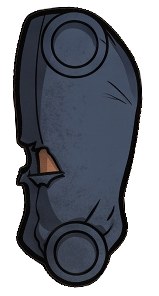
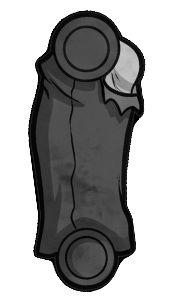
v2.15: zenci korsanın belden altı yeni görselle (kalça, üst/alt bacak, bot; önü/arkası tonla), tüm parçalar %100 ölçek
Claude-Session: https://claude.ai/code/session_01TTUSvMZpijoj56mF5NfEiC

diff --git a/www/index.html b/www/index.html
@@ -49,7 +49,7 @@ canvas{cursor:crosshair}.etiket,.ipucu{pointer-events:none}
 <link rel="stylesheet" href="https://fonts.googleapis.com/css2?family=Bangers&family=Nunito:wght@700;800&display=swap">
 
 <canvas id="c"></canvas>
-<div class="etiket"><b>POPEYE FIGHTER</b>v2.14</div>
+<div class="etiket"><b>POPEYE FIGHTER</b>v2.15</div>
 <div class="ipucu">← → yürü &nbsp; ↑ zıpla &nbsp; J yumruk &nbsp; K tekme &nbsp; G süpermen &nbsp; B dönen tekme &nbsp; N yer yumruğu/süper iniş &nbsp; M kayma &nbsp; ↓ çömel &nbsp; <b>sağ/sol yarıya tık tık: kombo &nbsp; sürükle: sağ yarı ön kol, sol yarı arka kol</b></div>
 <div class="tus" id="asa" aria-label="eğil"></div><div class="tus" id="sol" aria-label="sol"></div><div class="tus" id="sag" aria-label="sağ"></div><div class="tus" id="zipla" aria-label="zıpla"></div>
 <div id="kombolB" aria-label="kombo listesi"></div>
@@ -82,7 +82,7 @@ ADLAR.forEach(a=>{
     R.z_ust_k=koyult(R.z_ust,.3);R.z_onA_k=koyult(R.z_onA,.3);R.z_bacak_k=koyult(R.z_bacak,.36);R.z_ayak_k=koyult(R.z_ayak,.36);      // zombinin arkadaki kolu/bacağı daha koyu   // arkadaki kol: bacaktan daha açık ton
     basla();}};
   im.onerror=()=>{document.getElementById('yuk').textContent='Parça yüklenemedi: '+a};
-  im.src='parca/'+a+'.png?v=41';          // ?v= : görsel değişince tarayıcı eski önbelleği kullanmasın
+  im.src='parca/'+a+'.png?v=42';          // ?v= : görsel değişince tarayıcı eski önbelleği kullanmasın
 });
 const YUZ=[];                      // ana yüz: 0 = tam can ... 9 = çok az can, 10 = ölü
 for(let i=0;i<11;i++){const im=new Image();im.src='yuz/yuz'+i+'.png?v=41';YUZ.push(im)}
@@ -1326,8 +1326,8 @@ function ciziZombi(e,mask){
 // ---------- Korsan (insan dövüşçü): oyuncunun iskeleti gibi omuz → dirsek → bilek, kalça → diz; parça halkaları eklem noktası ----------
 // iki görünüm aynı iskelet ve hareketlerle: k = yumruklu korsan, b = bıçaklı korsan (eski emekleyen zombinin yerine)
 const KSK={
-  k:{p:'k_',sc:0.95,us:0.75,as:1.25,A:{ust:[83,64.4],on:[139,52.2],elN:[91.1,43.3],elF:[95.8,44.1],uyN:[74.9,44.1],uyF:[101,53.1],bacak:[63.6,33.6],govde:[150,351],kalca:[126,57],kafa:[129,216]},
-     ust:183.8,on:172.7,uy:209.8,tb:[2.4,276],bel:566,kN:[15,96],kF:[-18,96],omN:[-100.8,-227.4],omF:[90,-246],boyun:[10.8,-308]},
+  k:{p:'k_',sc:0.95,us:1,as:1,A:{ust:[83,64.4],on:[139,52.2],elN:[91.1,43.3],elF:[95.8,44.1],uyN:[86.1,47.8],uyF:[86.1,47.8],bacak:[107.3,70.2],govde:[150,351],kalca:[105.3,75.3],kafa:[129,216]},
+     ust:183.8,on:172.7,uy:209.8,tb:[0,276],bel:566,kN:[15,96],kF:[-18,96],omN:[-100.8,-227.4],omF:[90,-246],boyun:[10.8,-308]},
   b:{p:'b_',sc:0.98,us:1,as:1,A:{ust:[58.8,54.5],on:[128.4,47.2],elN:[64.9,32.8],elF:[94.5,43.8],uyN:[72.7,42.4],uyF:[112.4,53.2],bacak:[88.8,31.2],govde:[138,351],kalca:[123,27],kafa:[123,231]},
      ust:138.9,on:166.4,uy:208.5,tb:[1.2,249.6],bel:551,kN:[12,93],kF:[-18,90],omN:[-85.2,-228],omF:[114,-249],boyun:[-9,-307]}
 };
